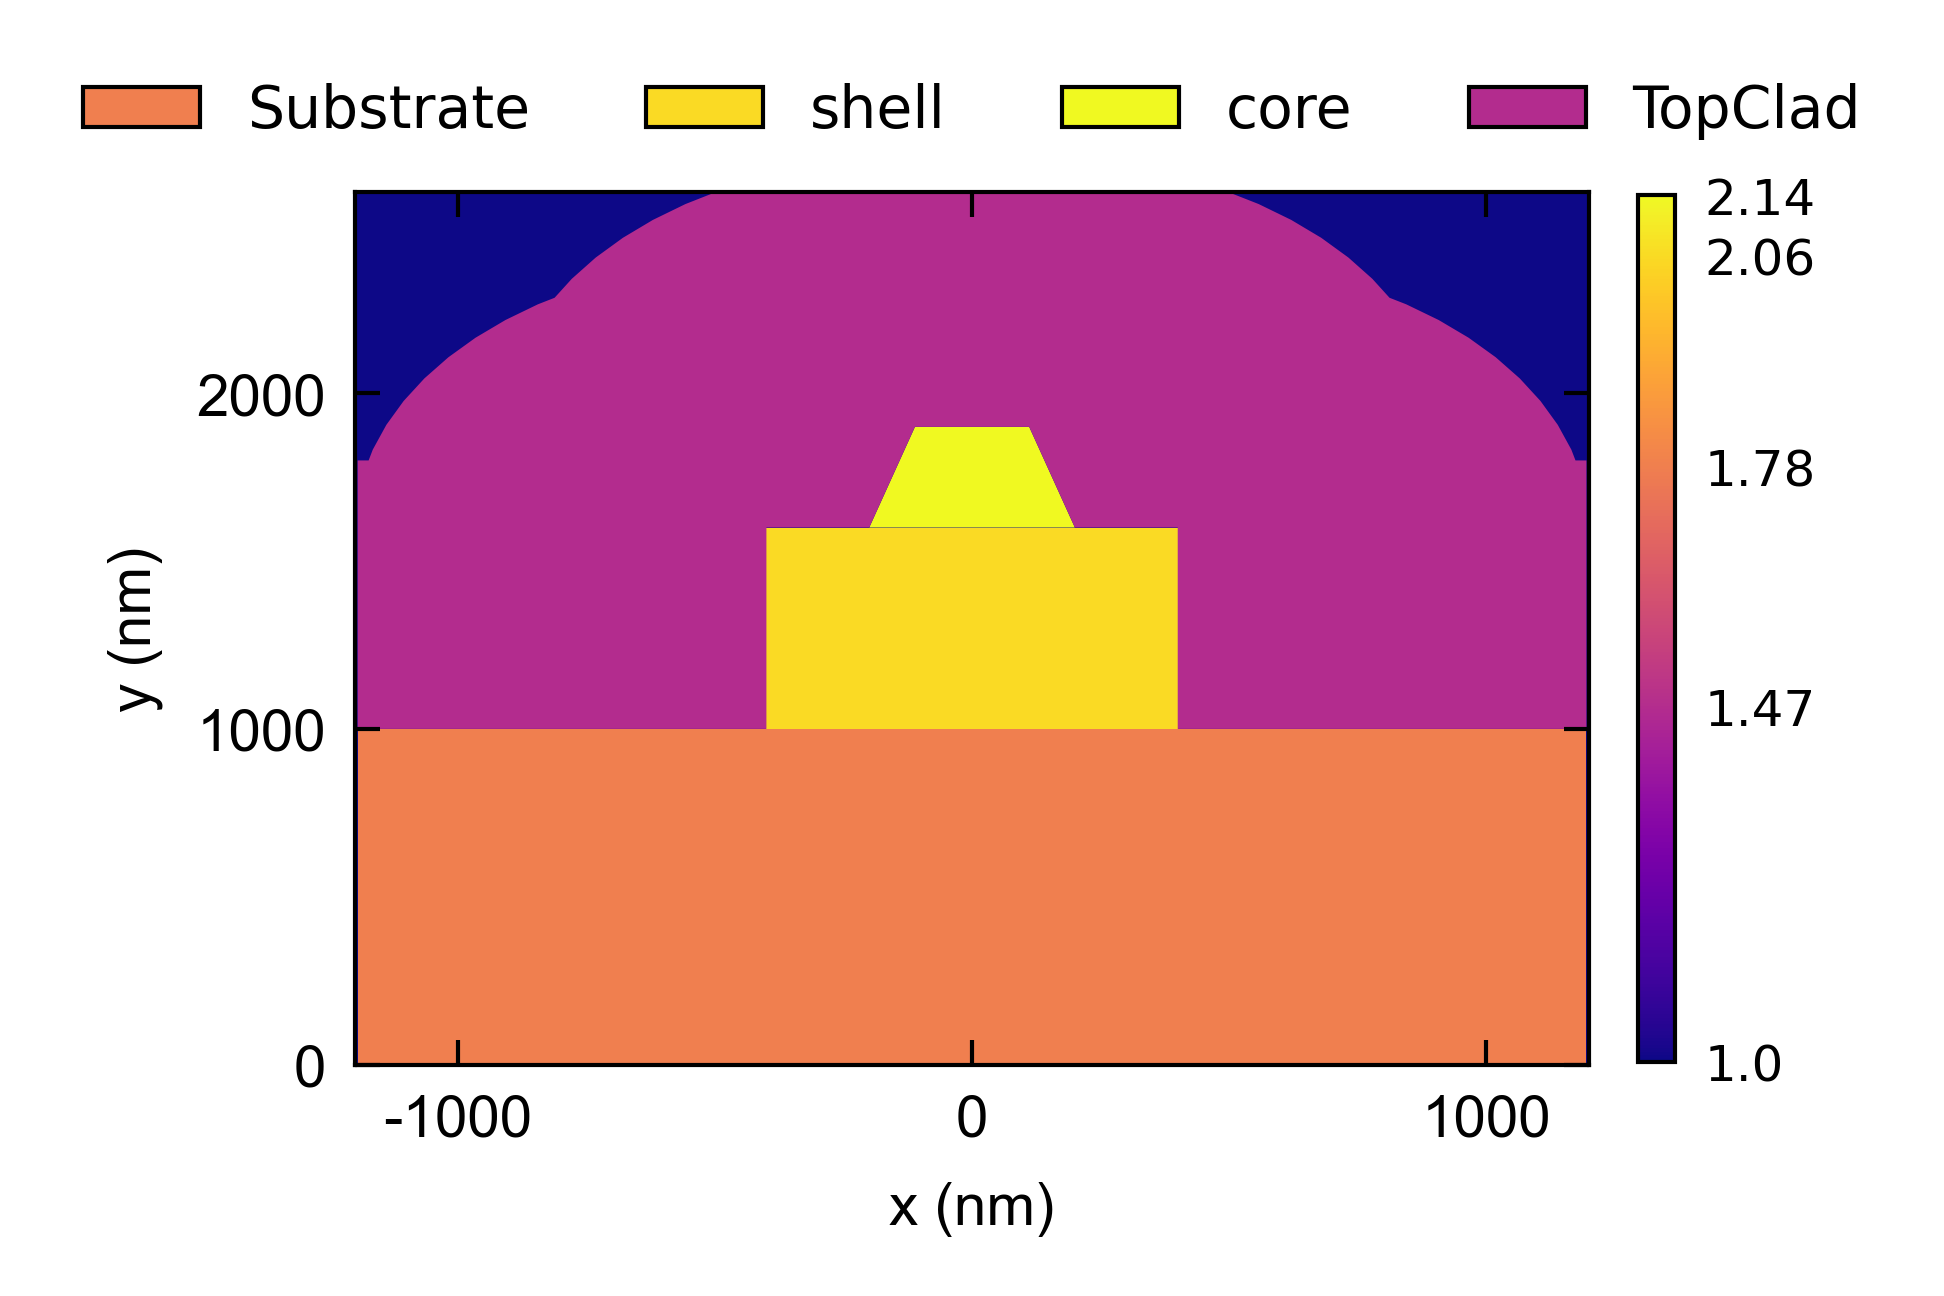
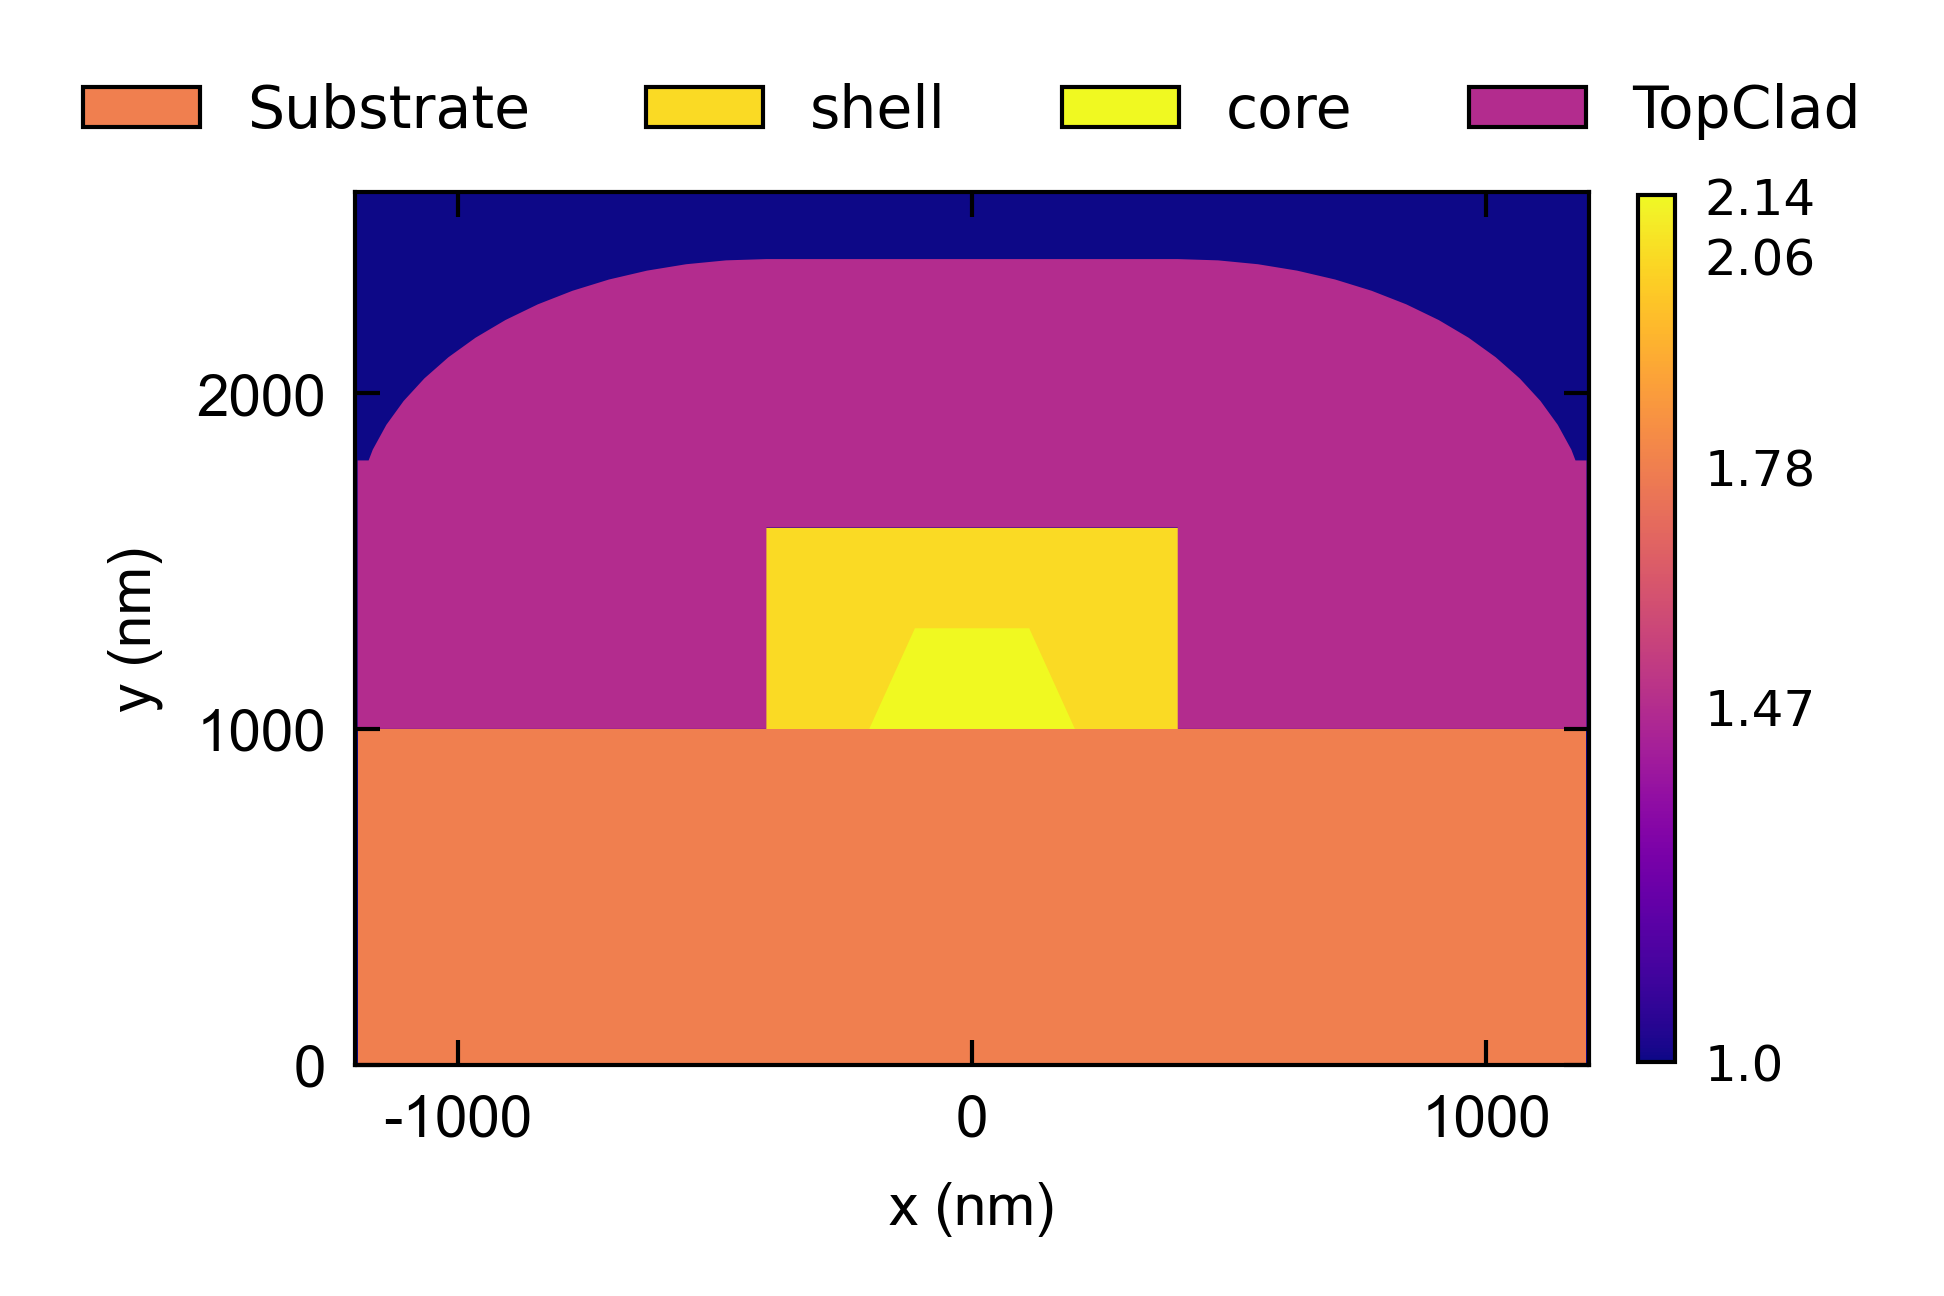
SHG survey: fix critical hybrid geometry bug -- core was stacked, not embedded
em.shape()'s position defaults to (0, 'auto'), which auto-stacks a new
shape on top of whatever already occupies its mask footprint.
Hybrid.build()'s core shape() call never set position, so EMode
silently stacked the AlN core on top of the SiNx shell instead of
embedding it laterally within the shell's footprint as _masks() always
assumed and the Honda et al. mechanism requires.

Fix took two tries: position=(0, substrate_height) (assuming
bottom-referenced, like the implicit stacking default) instead
centered the core ON substrate_height, straddling into the substrate.
position's y-value is center-referenced -- substrate_height + h_core/2
is what actually lands the core's bottom edge at the substrate line,
confirmed via em.plot(component='Index') now matching _masks() exactly.

This invalidates every hybrid result reported before this fix (all
three prior sweeps, 52 geometries, 23546 crossings, including the two
NCE headlines and the "no TM00->TM20 anywhere" finding) -- they all
describe a stacked ridge-on-pedestal structure, not the embedded one
intended. See PLAN.md for the full writeup, including one encouraging
but unconfirmed signal: TM20 now appears among the smoke geometry's
first four modes, which never happened under the old (wrong) geometry.

Changed region(s): [[0.2778, 0.1235, 0.7099, 0.2469], [0.4321, 0.463, 0.5556, 0.5864], [0.4321, 0.3086, 0.5556, 0.4321]]

diff --git a/shg_mode_survey/geometry.py b/shg_mode_survey/geometry.py
@@ -453,8 +453,20 @@ class Hybrid:
         em.shape(name='shell', material=self._shell_material_name(), height=p['sin_height'],
                  mask=p['sin_width'], etch_depth=p['sin_height'], sidewall_angle=0.0, **rough)
         # core: drawn after the shell, so it takes priority in their overlapping footprint
-        # (same "later shape wins" convention already relied on by Loaded's film-then-strip)
+        # (same "later shape wins" convention already relied on by Loaded's film-then-strip).
+        # position=(x, y) is REQUIRED and y is CENTER-referenced -- shape()'s default position is
+        # (0, 'auto'), which auto-stacks a shape on top of whatever's already there within its own
+        # mask width (real-fab-style sequential deposition); without it, 'core' silently stacked on
+        # TOP of the already-drawn 'shell' instead of embedding laterally within it. Confirmed
+        # 2026-10-10 via em.plot(component='Index') + a controlled position sweep: position=(0,
+        # substrate_height) (tried first, assuming bottom-referenced like the implicit stacking
+        # default) centered the core on substrate_height instead, straddling into the substrate;
+        # substrate_height + h_core/2 is what actually lands the core's bottom edge at
+        # substrate_height, matching _masks()'s convention and the Honda et al. mechanism (AlN
+        # surrounded by SiNx on the sides and above, not stacked on top of it). This bug silently
+        # affected every 'hybrid' geometry run before this fix -- see PLAN.md.
         em.shape(name='core', material='custom_AlN', height=p['h_core'], mask=p['w_core'],
+                 position=(0, p['substrate_height'] + p['h_core'] / 2),
                  etch_depth=p['h_core'], sidewall_angle=p['sidewall_angle'], **rough)
         em.shape(name='TopClad', material=p['topclad_material'], height=p['topclad_height'],
                  shape_type='conformal')

diff --git a/shg_mode_survey/PLAN.md b/shg_mode_survey/PLAN.md
@@ -19,11 +19,15 @@ efficiency/coverage without changing the physics conclusion. `ridge`'s older com
 since been re-verified clean against this check (0 window-limited across `trial_grid` +
 `wide_window`). A third family, `hybrid` (AlN core embedded in a SiNx shell, adapting Honda et al.
 2025's TM00->TM20 mechanism to this project's UV band), is now implemented, geometry-verified, and
-surveyed across 30 geometries (first pass + a targeted 24-geometry sin_width/w_core sweep): clean
-(0 window-limited across 14732 crossings), headline 25.2 %/W/cm^2 (TM01->TM81), but **the paper's
-own TM00->TM20 mechanism has not been found in this band after either sweep** -- see
-"Implementation status & findings" at the end, 2026-10-05/06 entries, and "Open items" for what
-that does and doesn't mean. Builds on `loss_vs_dimensions/` and borrows from `phase_matching_pipeline/`.
+surveyed across 52 geometries total (three sweeps, 23546 crossings) -- **but a geometry-construction
+bug (`em.shape()`'s default `position` auto-stacks a new shape on top of the last one; `Hybrid.build()`
+never set it) meant the AlN core was never actually embedded in the SiNx shell in any of those 52
+geometries, just stacked on top of it.** Found and fixed 2026-10-10 (see "Implementation status &
+findings", same-day entry). Every `hybrid` number reported before that fix -- all three sweeps'
+headlines, the "no TM00->TM20 anywhere" finding, the sub-metric breakdown artifact -- describes a
+structure that was never the one intended, not the Honda et al. mechanism. Awaiting direction on
+re-running the sweep campaign under the corrected geometry. Builds on `loss_vs_dimensions/` and
+borrows from `phase_matching_pipeline/`.
 
 ## Goal
 
@@ -817,3 +821,52 @@ remains 35.2 %/W/cm^2, still clean, still no TM00->TM20 anywhere.
 Not yet done: a narrower `sin_height` sweep (e.g. below 500 nm) following up on the "smaller shell
 margin keeps winning" trend; re-running the sub-metric artifact against this run's data to see
 whether the same loss/overlap decoupling holds vertically.
+
+### CRITICAL: `hybrid`'s core was never actually embedded in the shell -- invalidates all 52 prior geometries (2026-10-10)
+
+Before starting the narrower-`sin_height` follow-up, re-examined the committed geometry-check
+render ([runs/geometry_check/hybrid_smoke_index.png](runs/geometry_check/hybrid_smoke_index.png))
+more carefully and found the AlN core was **not actually embedded inside the SiNx shell** in any
+of the three `hybrid` sweeps run so far (`hybrid1`, `hybrid_sweep1`, `hybrid_vertical1` -- 52
+geometries, 23546 crossings total). The render showed the core trapezoid sitting *on top of* the
+shell block (two tiers stacked vertically, a plain ridge-on-pedestal), not surrounded by shell on
+the sides and above as `_masks()` computes and the Honda et al. mechanism requires.
+
+Root cause: `em.shape()`'s `position` defaults to `(0, 'auto')`, where `'auto'` auto-stacks a new
+shape on top of whatever already occupies its mask footprint (real-fab-style sequential
+deposition) -- `Hybrid.build()`'s `core` shape() call never set `position` at all, so EMode
+silently stacked it on top of the already-drawn `shell` instead of placing it at the substrate
+baseline alongside/within the shell's footprint. Confirmed by comparing `em.plot(component=
+'Index')` against the Python-side `_masks()` (which was always correct -- the bug was purely in
+`build()`, same class of issue as the `etch_depth` bug found 2026-10-05, different parameter).
+
+Fix required a second round: setting `position=(0, substrate_height)` (assuming bottom-referenced,
+like the implicit stacking default) instead centered the core *on* `substrate_height`, straddling
+down into the substrate -- `position`'s y-value turns out to be **center-referenced**, not
+bottom-referenced. `position=(0, substrate_height + h_core/2)` is what actually lands the core's
+bottom edge at the substrate line, matching `_masks()` exactly (confirmed via the geometry-check
+render: core now sits bottom-flush with the shell's bottom, flanked on both sides and wrapped
+above by shell, up to `sin_height`). Fixed in `geometry.py`'s `Hybrid.build()`; no-EMode test
+suite re-run clean (these tests only cover `_masks()`, which was never wrong).
+
+**This means every `hybrid` result reported so far -- the 25.2 %/W/cm^2 and 35.2 %/W/cm^2
+headlines, the "no TM00->TM20 anywhere" finding across all three sweeps, and the sub-metric
+breakdown artifact's loss/overlap/confinement story -- was computed for a structure that was never
+the one intended.** The stacked (wrong) and embedded (correct) geometries are different
+waveguides with different dispersion; nothing above should be treated as a finding about the
+Honda et al. mechanism itself. Whether the *stacked* structure's own numbers are independently
+interesting is a separate, unasked question -- not pursued.
+
+One encouraging, NOT YET CONFIRMED signal: re-running the live mode check on the smoke geometry
+(h=300/w=400/sin_w=800/sin_h=600) with the corrected geometry shows **TM20 appearing among the
+first four computed modes** at the check's default wavelength (450 nm) -- it didn't appear at all
+in the equivalent check against the old, stacked geometry. This is just a mode existing at one
+wavelength, not a phase-matching crossing in the 215-235 nm SH window -- far short of confirming
+the mechanism -- but it's the first time TM20 has shown up at all in this family's results, which
+the stacked geometry apparently could never produce. Worth a fresh, full campaign to check
+properly rather than reading into one data point.
+
+Pending user direction on how to proceed: likely a full re-run of both the lateral and vertical
+sweeps (and the narrower-`sin_height` follow-up) under the corrected geometry, effectively
+restarting the `hybrid` family's sweep history from here. The three invalidated runs are left
+committed (as `hybrid1`, `hybrid_sweep1`, `hybrid_vertical1`) for the record, not deleted.
